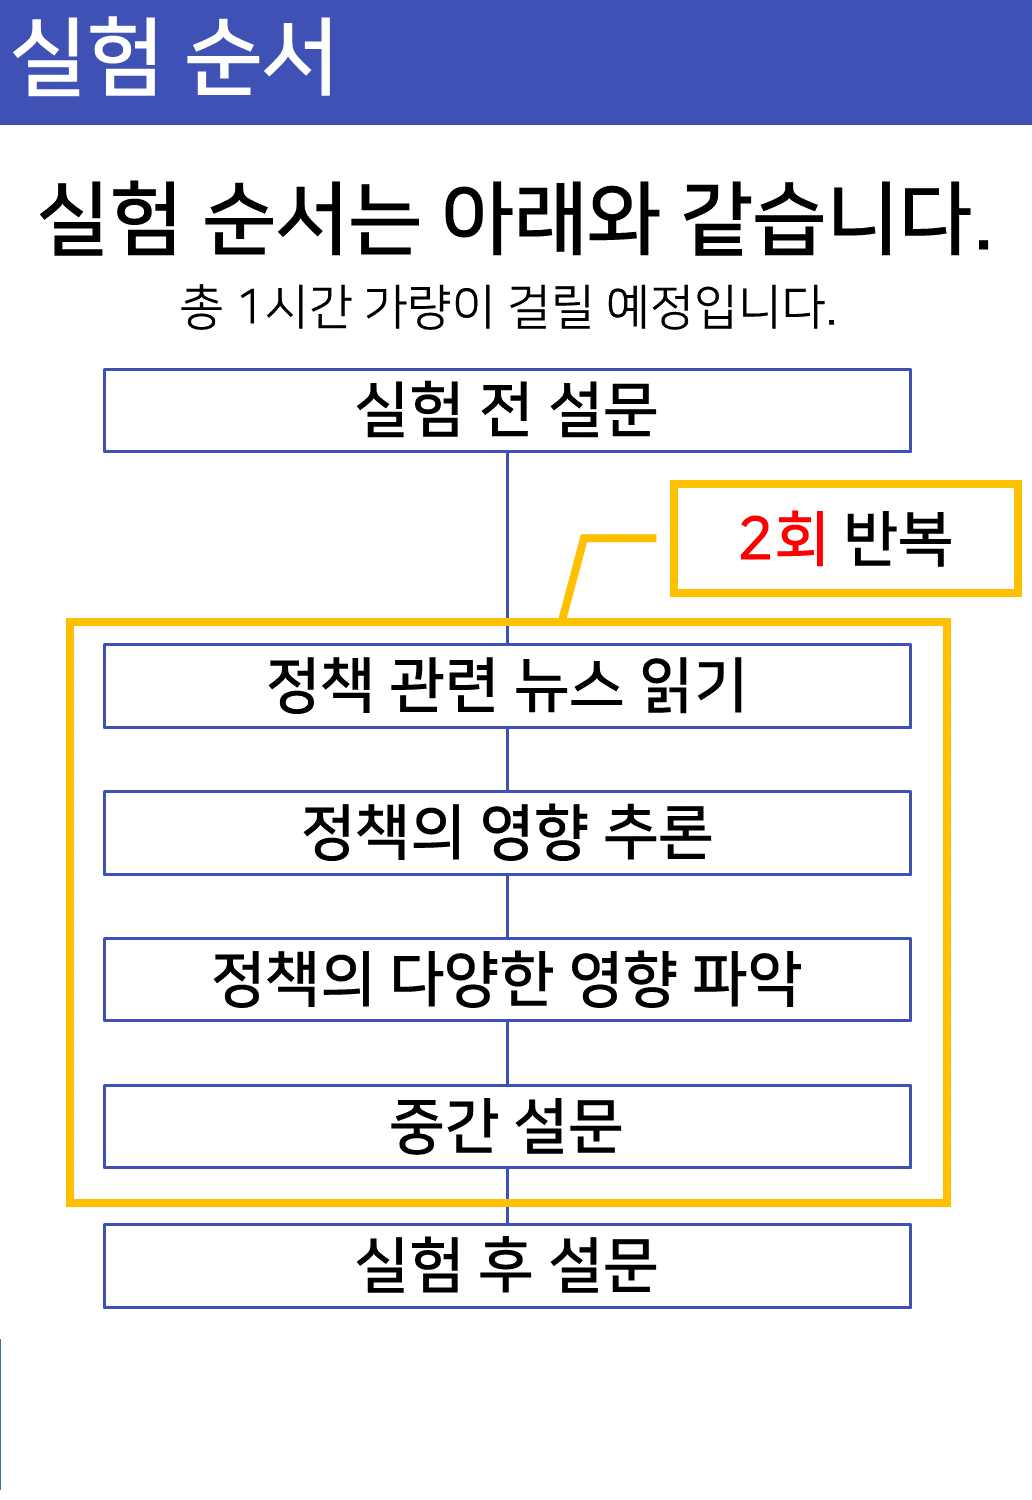
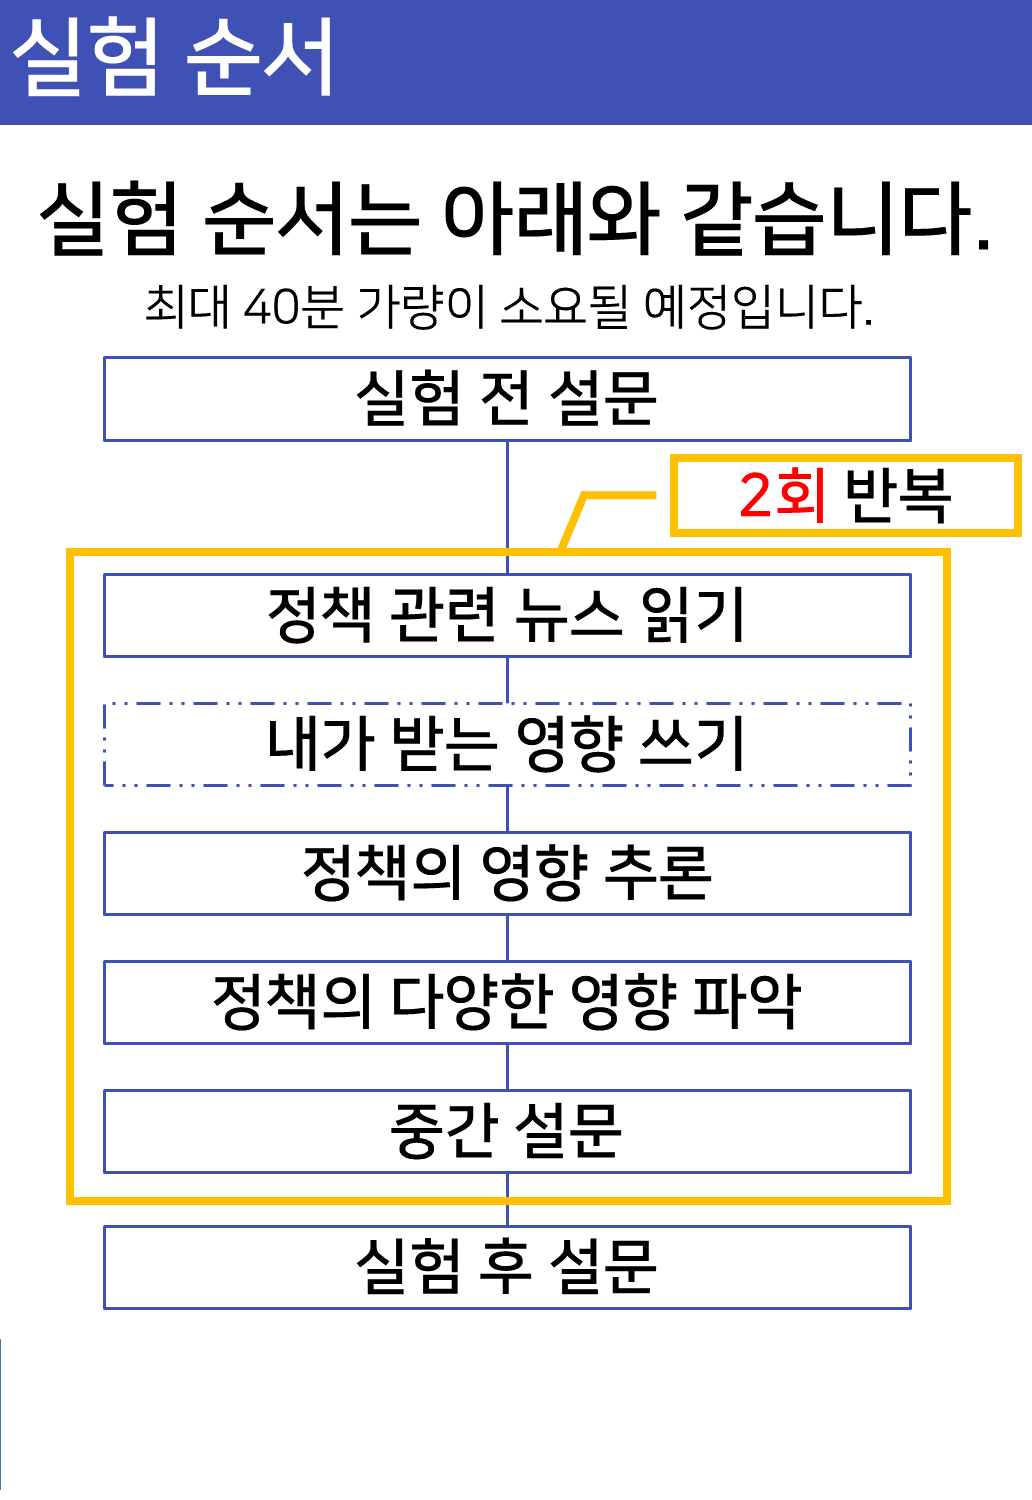
tutorial modified

diff --git a/components/NavigationDrawer.vue b/components/NavigationDrawer.vue
@@ -378,6 +378,24 @@ export default {
       set: function (val) {
         this.$emit('emitterdrawer', val)
       }
+    },
+    instr_step: function () {
+      switch (this.userGroup) {
+        case 1:
+        case 2:
+          return ['뉴스\n읽기', '영향\n말하기', ' ', ' ']
+        case 3:
+        case 4:
+          return ['뉴스\n읽기', '영향\n말하기', '영향\n추론', '영향\n읽기']
+        case 6:
+        case 7:
+          return ['뉴스\n읽기', '영향\n말하기', '영향\n추론', ' ']
+        case 5:
+        case 0:
+          return ['뉴스\n읽기', '영향\n말하기', '영향\n추론', '영향\n읽기']
+        case -1:
+          return [' ', ' ', ' ', ' ']
+      }
     }
   },
   props: {
@@ -417,8 +435,7 @@ export default {
   data: function () {
     return {
       dropDialog: false,
-      aboutDialog: false,
-      instr_step: ['뉴스\n읽기', '영향\n말하기', '영향\n추론', '영향\n읽기']
+      aboutDialog: false
     }
   }
 }

diff --git a/pages/TagOverview.vue b/pages/TagOverview.vue
@@ -20,7 +20,7 @@
         <v-card style="outline:auto;">
           <v-card-actions>
             <v-flex xs10 style="text-align:center;">
-              여러분이 추론하셨던 태그는...
+              여러분이 추론할 때 보셨던 태그는...
             </v-flex>
             <v-btn icon @click="show = !show">
               <v-icon>{{ show ? 'keyboard_arrow_down' : 'keyboard_arrow_up' }}</v-icon>
@@ -142,14 +142,13 @@ export default {
     },
     maxValue: function () {
       const t = this.tags.map((tag) => { return tag.refs })
-      console.log(t)
+      // console.log(t)
       return Math.max(...t)
     },
     guessedTag: function () {
-      var lst = [['a', 'b'], ['c', 'd']]
+      var lst = this.$store.state.guesssedTags
       var flatLst = [].concat.apply([], lst)
       return flatLst
-      // return this.$store.state.guesssedTags
     }
   },
   data: function () {

diff --git a/pages/Tutorial.vue b/pages/Tutorial.vue
@@ -102,15 +102,15 @@
         switch (this.userGroup) {
           case 1:
           case 2:
-            return 6
+            return 7
           case 3:
           case 4:
-            return 8
+            return 9
           case 5:
           case 0:
           case 6:
           case 7: // TODO: handle case 6 & 7
-            return 9
+            return 10
           case -1:
             return 7
         }
